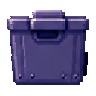
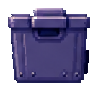
replace corrupted pixel art assets with rebuilt sprites

diff --git a/index.html b/index.html
@@ -4,7 +4,7 @@
 <meta charset="UTF-8">
 <meta name="viewport" content="width=device-width, initial-scale=1.0, maximum-scale=1.0, user-scalable=no, viewport-fit=cover">
 <title>The Proposal</title>
-<!-- Approved baseline: Nerd real sprites + real collectible/obstacle pixel-art assets -->
+<!-- Approved baseline v4: Nerd sprites + individually rebuilt clean collectible/obstacle assets -->
 <style>
   :root{
     --bg:#0B1017;
@@ -938,27 +938,43 @@
     const img=gameAssets[type];
     if(!img || !img.complete || !img.naturalWidth) return;
 
-    const sizes={
-      trash:[54,54],
-      barrier:[70,54],
-      cone:[52,58],
-      laptop:[62,52],
-      crate:[58,58]
+    // Max boxes preserve each obstacle's authored proportions.
+    const boxes={
+      trash:[48,50],
+      barrier:[67,48],
+      cone:[43,52],
+      laptop:[58,45],
+      crate:[52,52]
     };
-    const [w,h]=sizes[type] || [56,56];
+
+    const [maxW,maxH]=boxes[type] || [52,52];
+    const ratio=img.naturalWidth/img.naturalHeight;
+
+    let w=maxW, h=w/ratio;
+    if(h>maxH){
+      h=maxH;
+      w=h*ratio;
+    }
 
     ctx.save();
     ctx.imageSmoothingEnabled=false;
 
-    // subtle contact shadow only; artwork itself already contains its authored shading.
-    ctx.globalAlpha=.22;
+    // Ground contact shadow, aligned to the actual bottom of the sprite.
+    ctx.globalAlpha=.20;
     ctx.fillStyle='#070817';
     ctx.beginPath();
-    ctx.ellipse(x,gy+2,w*.36,5,0,0,Math.PI*2);
+    ctx.ellipse(x,gy+2,Math.max(14,w*.34),4.5,0,0,Math.PI*2);
     ctx.fill();
     ctx.globalAlpha=1;
 
-    ctx.drawImage(img,Math.round(x-w/2),Math.round(gy-h),w,h);
+    ctx.drawImage(
+      img,
+      Math.round(x-w/2),
+      Math.round(gy-h),
+      Math.round(w),
+      Math.round(h)
+    );
+
     ctx.restore();
   }
 
@@ -1017,25 +1033,50 @@
     const img=gameAssets[key];
     if(!img || !img.complete || !img.naturalWidth) return;
 
-    // Standardized visual size: this specifically prevents giant hamburgers / tiny açaí.
-    const sizes={
-      burger:48, pizza:45, fries:43, icecream:45, acai:46,
-      basketball:44, gamepad:46, clapper:46, coffee:43, heart:44
+    // Max visual boxes by item. Aspect ratio is always preserved.
+    // This fixes stretched/cropped assets and keeps the burger from dominating the scene.
+    const boxes={
+      burger:[44,38],
+      pizza:[42,44],
+      fries:[39,44],
+      icecream:[36,46],
+      acai:[44,40],
+      basketball:[42,42],
+      gamepad:[46,37],
+      clapper:[46,39],
+      coffee:[35,44],
+      heart:[42,40]
     };
-    const size=sizes[key] || 45;
+
+    const [maxW,maxH]=boxes[key] || [44,44];
+    const ratio=img.naturalWidth/img.naturalHeight;
+
+    let w=maxW, h=w/ratio;
+    if(h>maxH){
+      h=maxH;
+      w=h*ratio;
+    }
 
     ctx.save();
     ctx.imageSmoothingEnabled=false;
 
-    // Shared glow makes every collectible readable against the night scene.
-    const glow=ctx.createRadialGradient(x,y,4,x,y,size*.68);
-    glow.addColorStop(0,'rgba(255,190,85,.32)');
-    glow.addColorStop(.62,'rgba(255,91,126,.12)');
+    // Shared glow only. The artwork itself is never resized non-proportionally.
+    const glowRadius=Math.max(w,h)*.82;
+    const glow=ctx.createRadialGradient(x,y,3,x,y,glowRadius);
+    glow.addColorStop(0,'rgba(255,194,92,.34)');
+    glow.addColorStop(.58,'rgba(255,91,126,.13)');
     glow.addColorStop(1,'rgba(255,91,126,0)');
     ctx.fillStyle=glow;
-    ctx.fillRect(x-size,y-size,size*2,size*2);
+    ctx.fillRect(x-glowRadius,y-glowRadius,glowRadius*2,glowRadius*2);
 
-    ctx.drawImage(img,Math.round(x-size/2),Math.round(y-size/2),size,size);
+    ctx.drawImage(
+      img,
+      Math.round(x-w/2),
+      Math.round(y-h/2),
+      Math.round(w),
+      Math.round(h)
+    );
+
     ctx.restore();
   }
 
@@ -1161,16 +1202,24 @@
         if(h.floatT>1)continue;
         ctx.globalAlpha=1-h.floatT;
         if(gameAssets.heart && gameAssets.heart.complete){
-          const hs=44;
-          ctx.drawImage(gameAssets.heart,sx-hs/2,h.y-h.floatT*42-hs/2,hs,hs);
+          const hi=gameAssets.heart;
+          const maxW=42,maxH=40;
+          const ratio=hi.naturalWidth/hi.naturalHeight;
+          let hw=maxW,hh=hw/ratio;
+          if(hh>maxH){hh=maxH;hw=hh*ratio;}
+          ctx.drawImage(hi,sx-hw/2,h.y-h.floatT*42-hh/2,hw,hh);
         }
         ctx.globalAlpha=1;
       }else{
         const bob=Math.sin((scrollDist+sx)*.02)*5;
         const pulse=1+Math.sin((scrollDist+sx)*.05)*.08;
         if(gameAssets.heart && gameAssets.heart.complete){
-          const hs=44*pulse;
-          ctx.drawImage(gameAssets.heart,sx-hs/2,h.y+bob-hs/2,hs,hs);
+          const hi=gameAssets.heart;
+          const maxW=42*pulse,maxH=40*pulse;
+          const ratio=hi.naturalWidth/hi.naturalHeight;
+          let hw=maxW,hh=hw/ratio;
+          if(hh>maxH){hh=maxH;hw=hh*ratio;}
+          ctx.drawImage(hi,sx-hw/2,h.y+bob-hh/2,hw,hh);
         }
       }
     }
